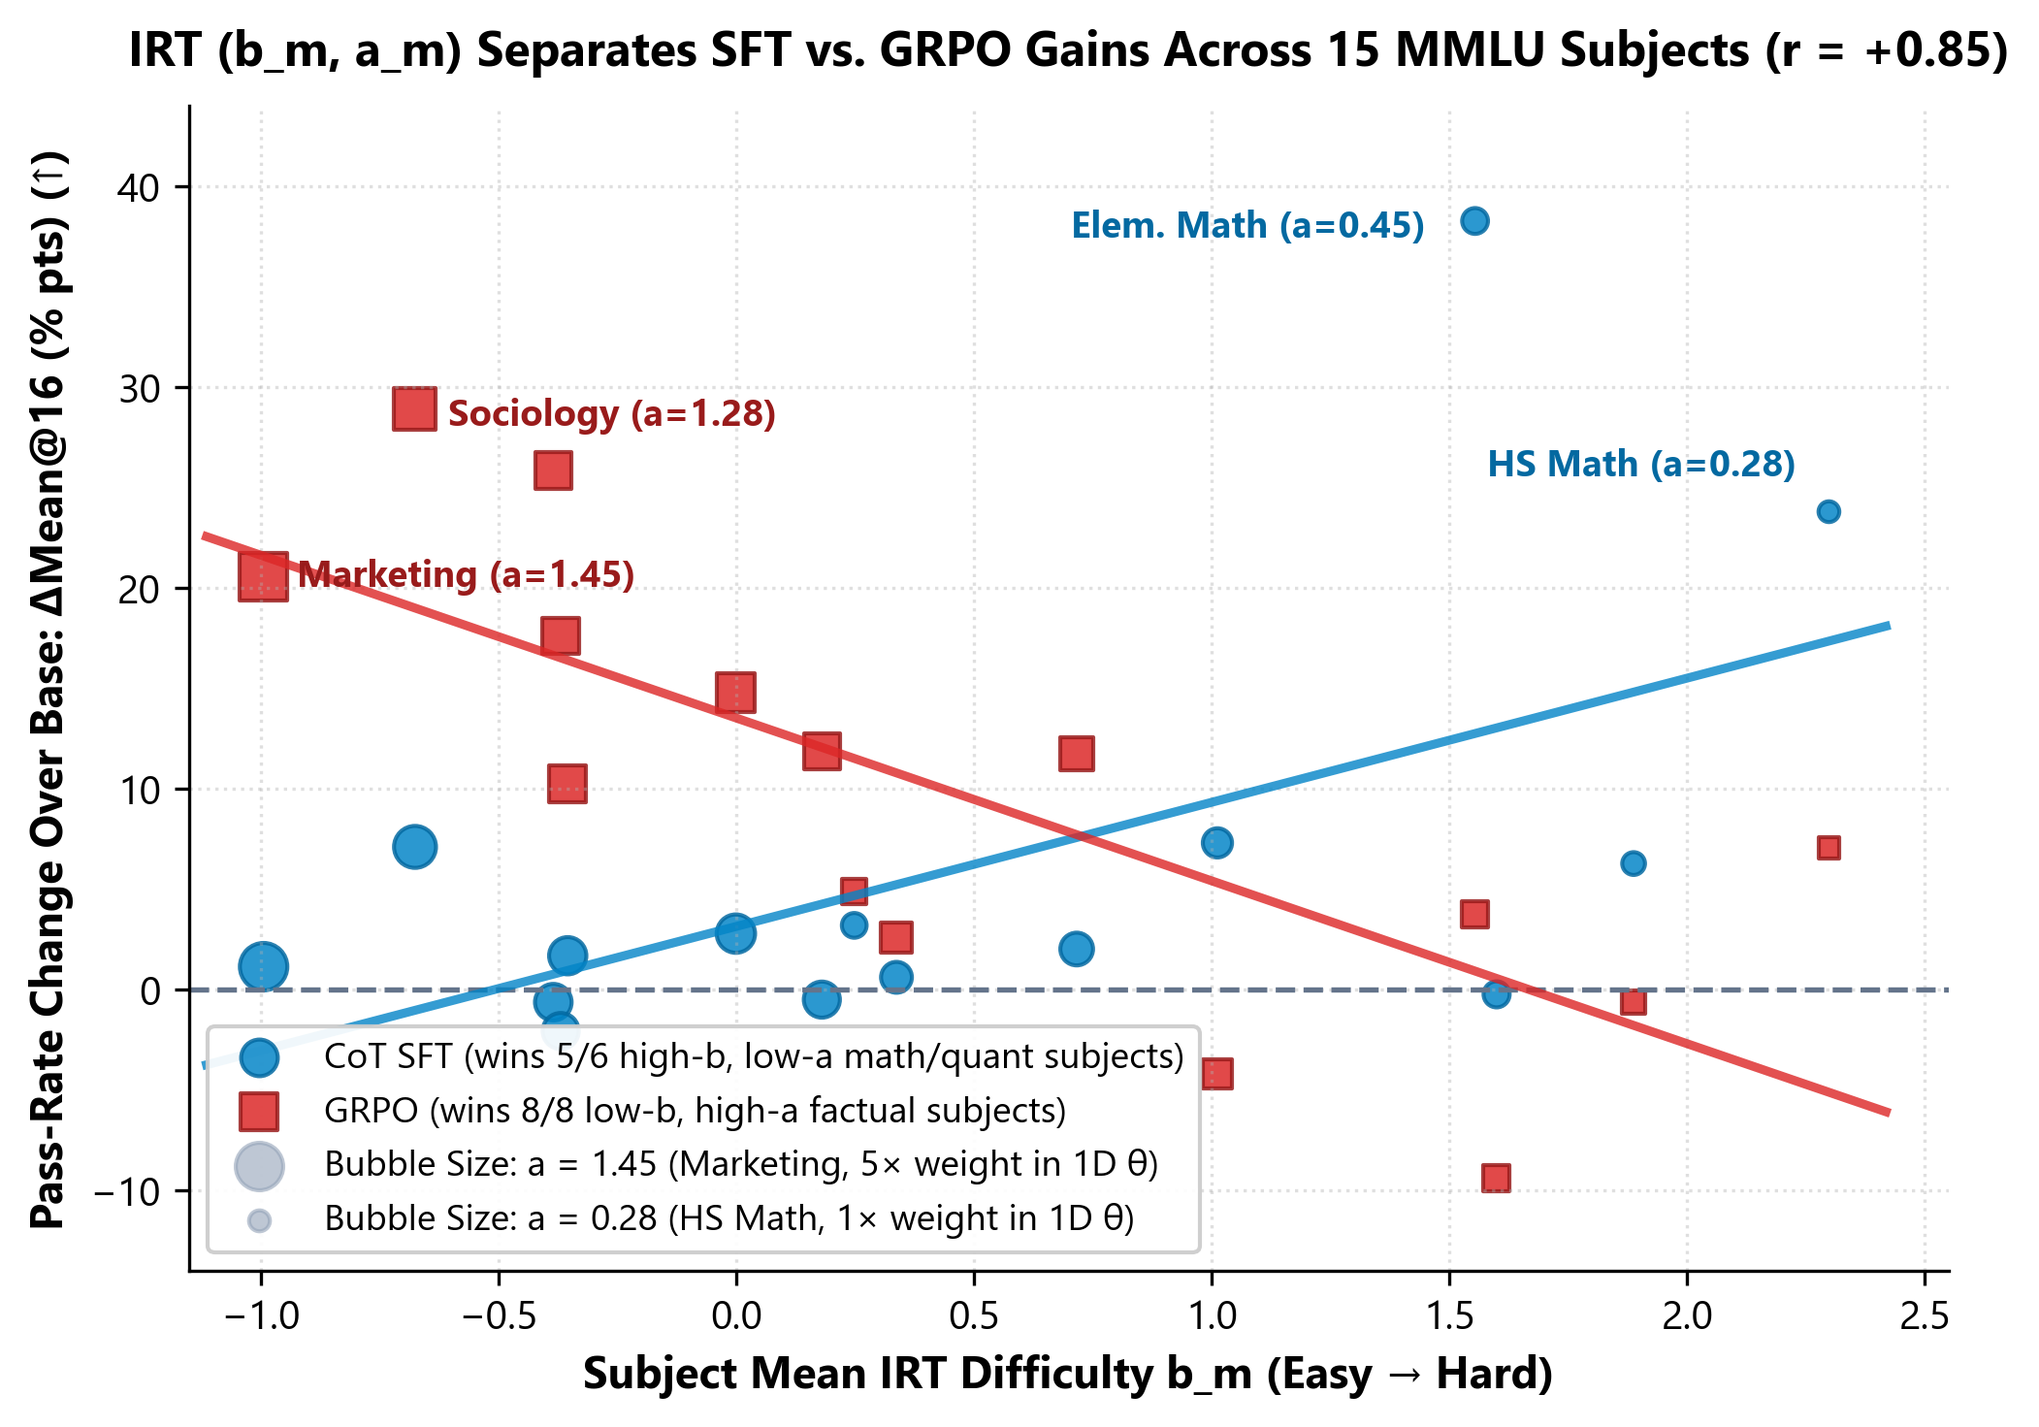
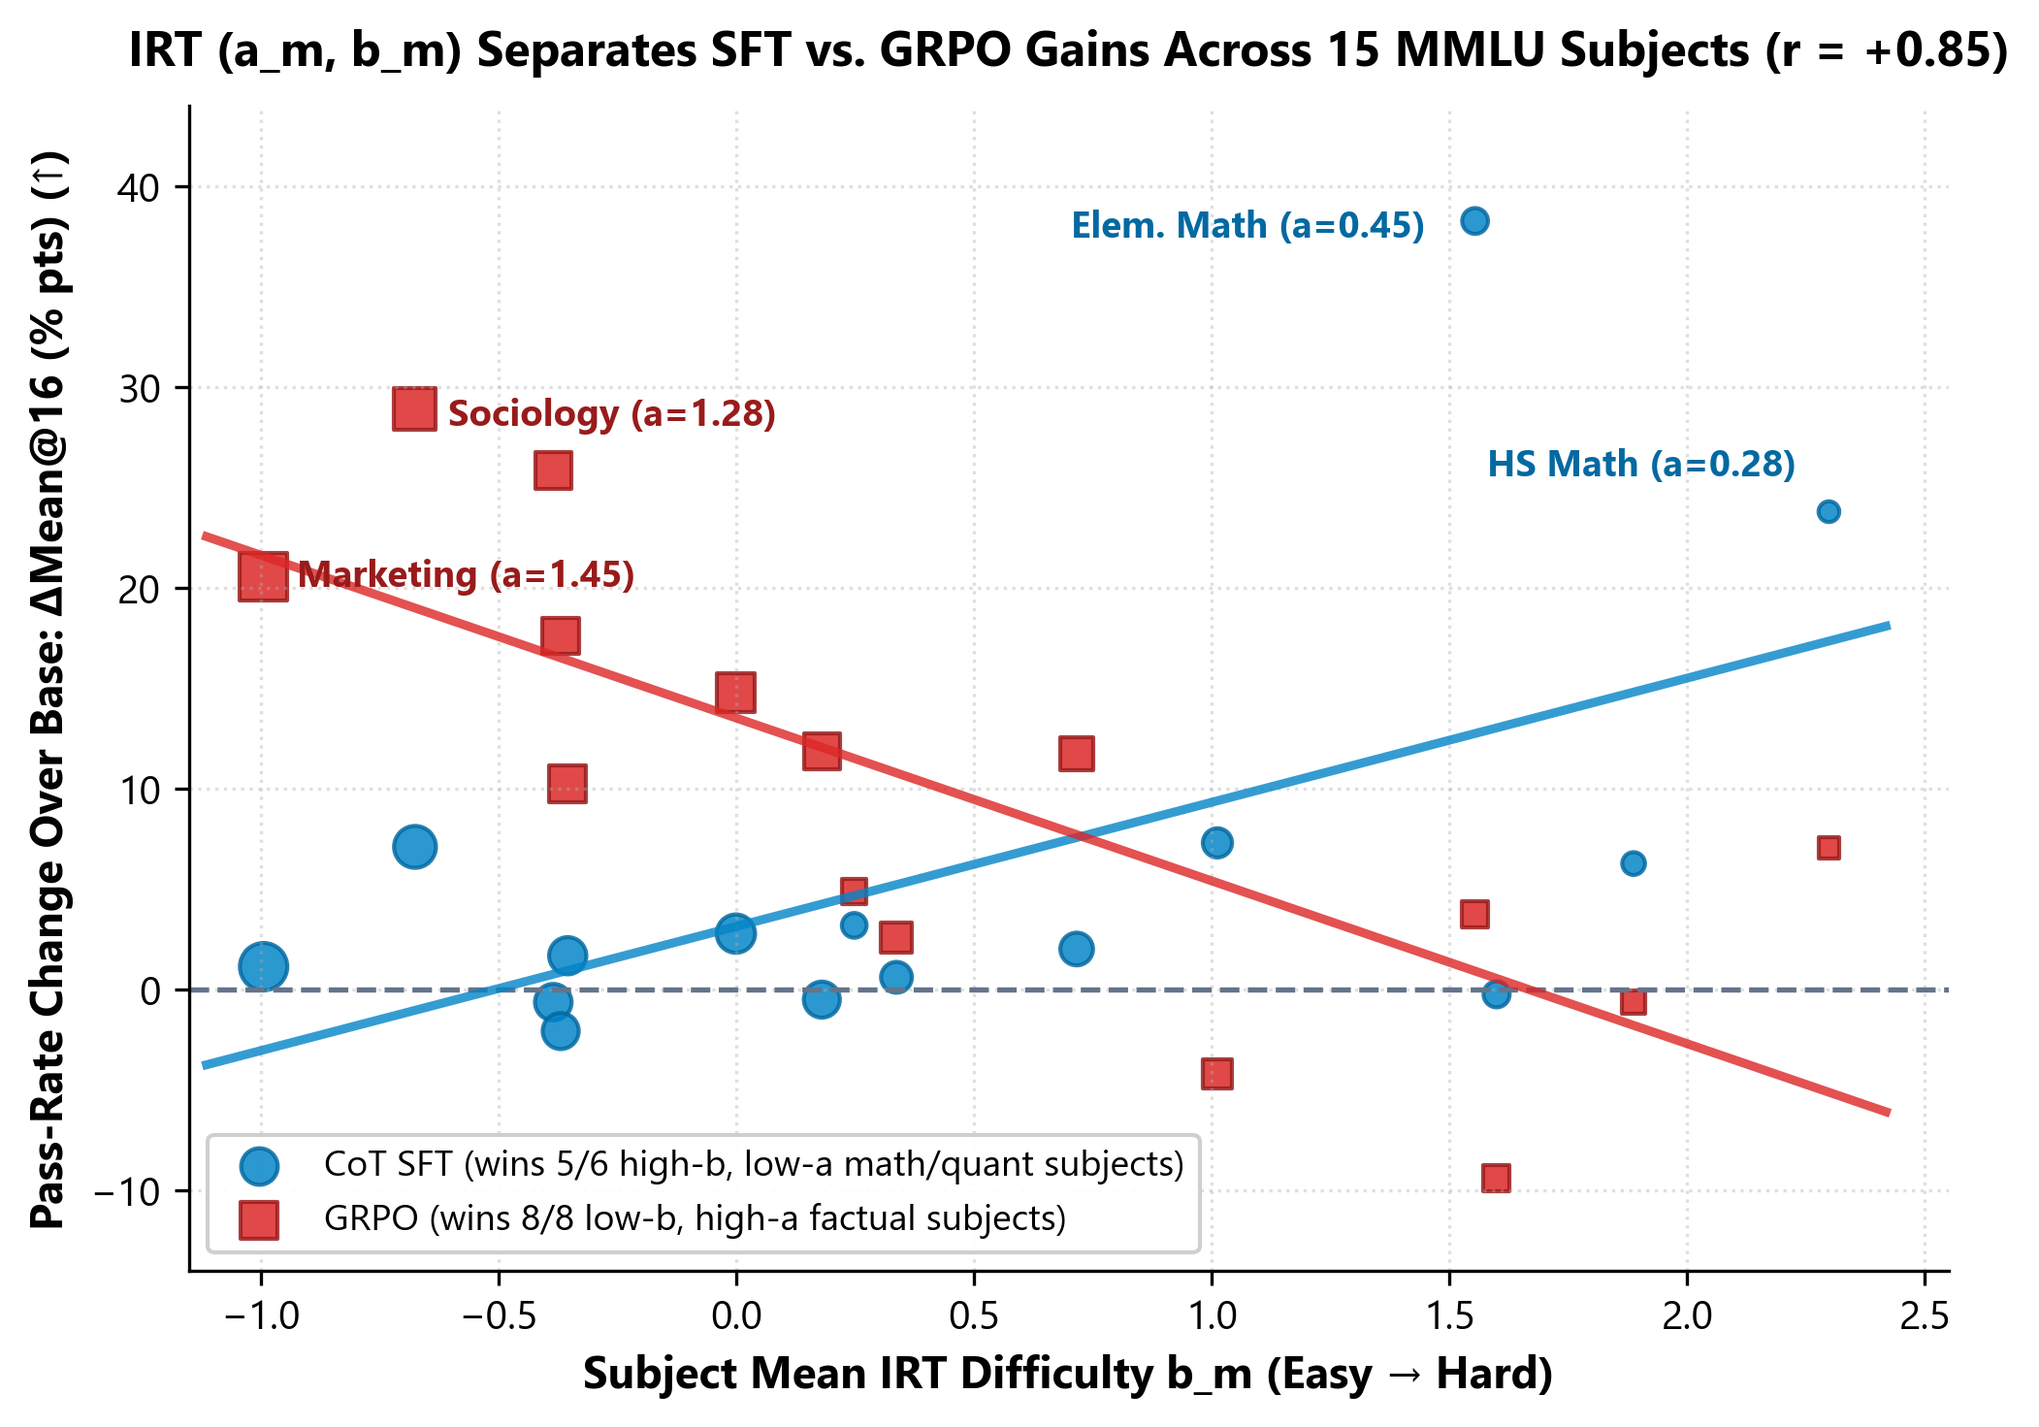
feat: co-sign claims rows 19-21, update Fig03 clean legend, and add Fig03_v2 and Fig04_v2

Changed region(s): [[0.0928, 0.7036, 0.5875, 0.8872], [0.1237, 0.0306, 0.1855, 0.0612]]

diff --git a/gemini/make_oct26_figures.py b/gemini/make_oct26_figures.py
@@ -18,7 +18,7 @@ Generate the 6 clean figures (Fig00 through Fig05) for the Oct 26, 2026 presenta
 
   - Fig03_irt_subject_separation_2d.png (Units W0 + S1 + Q2g, Single-Panel — POSITIVE IRT DIAGNOSTIC #1):
       Dataset: 1,472 matched MMLU items across 15 subjects (Llama-3.2-1B-Instruct CoT SFT vs. GRPO).
-      Role: 2D item parameters (b_m, a_m) explain the puzzle at the subject level — item difficulty b_m separates
+      Role: 2D item parameters (a_m, b_m) explain the puzzle at the subject level — item difficulty b_m separates
       GRPO-favored factual subjects from SFT-favored math/quant subjects (r = +0.85), while discrimination a_m
       shows why 1D ability theta overweights factual recall 5x over math.
 
@@ -237,7 +237,7 @@ def make_fig2_sft_vs_grpo_puzzle():
 
 # ==============================================================================
 # FIGURE 3 (Units W0 + S1 + Q2g, Single-Panel — POSITIVE IRT #1):
-#   How 2D Item Parameters (b_m, a_m) Explain the Subject-Level Crossover
+#   How 2D Item Parameters (a_m, b_m) Explain the Subject-Level Crossover
 # ==============================================================================
 def make_fig3_irt_subject_separation():
     w0 = pd.read_csv(os.path.join(RESULTS, "W0", "items_bank.csv"))
@@ -276,9 +276,6 @@ def make_fig3_irt_subject_separation():
     ax.plot(x_grid, m_sft * x_grid + c_sft_l, "-", color="#0284C7", linewidth=2.2, alpha=0.8)
     ax.plot(x_grid, m_grpo * x_grid + c_grpo_l, "-", color="#DC2626", linewidth=2.2, alpha=0.8)
 
-    ax.scatter([], [], s=1.45 * 95.0, color="#94A3B8", alpha=0.6, label="Bubble Size: a = 1.45 (Marketing, 5\u00d7 weight in 1D \u03b8)")
-    ax.scatter([], [], s=0.28 * 95.0, color="#94A3B8", alpha=0.6, label="Bubble Size: a = 0.28 (HS Math, 1\u00d7 weight in 1D \u03b8)")
-
     for subj, label, dx, dy, col in [
         ("marketing", "Marketing (a=1.45)", 0.07, -0.5, "#991B1B"),
         ("sociology", "Sociology (a=1.28)", 0.07, -0.8, "#991B1B"),
@@ -289,7 +286,7 @@ def make_fig3_irt_subject_separation():
         col_y = "dp_grpo" if col == "#991B1B" else "dp_sft"
         ax.text(r["b"] + dx, r[col_y] + dy, label, fontsize=9.2, color=col, fontweight="bold")
 
-    ax.set_title("IRT (b_m, a_m) Separates SFT vs. GRPO Gains Across 15 MMLU Subjects (r = +0.85)", pad=10)
+    ax.set_title("IRT (a_m, b_m) Separates SFT vs. GRPO Gains Across 15 MMLU Subjects (r = +0.85)", pad=10)
     ax.set_xlabel("Subject Mean IRT Difficulty b_m (Easy \u2192 Hard)")
     ax.set_ylabel("Pass-Rate Change Over Base: \u0394Mean@16 (% pts) (\u2191)")
     ax.set_xlim(-1.15, 2.55)
@@ -298,6 +295,61 @@ def make_fig3_irt_subject_separation():
     ax.grid(True, linestyle=":", alpha=0.4)
 
     save_fig(fig, "Fig03_irt_subject_separation_2d.png")
+
+
+# ==============================================================================
+# FIGURE 3 v2: 15 MMLU Subjects with 1,472 Background Items (a_m, b_m)
+# ==============================================================================
+def make_fig3_v2_irt_subject_separation():
+    w0 = pd.read_csv(os.path.join(RESULTS, "W0", "items_bank.csv"))
+    w0_ok = w0[w0["match_status"] == "matched"].copy()
+    t9 = pd.read_csv(os.path.join(RESULTS, "T9r", "items_wide.csv")).set_index("item_id").loc[w0_ok["bank_row_id"]]
+
+    w0_ok["dp_sft"] = t9[["dp_key_sft_0_70", "dp_key_sft_1_70", "dp_key_sft_2_70"]].mean(axis=1).values * 100.0
+    w0_ok["dp_grpo"] = t9[["dp_key_rl_0_666", "dp_key_rl_1_666", "dp_key_rl_2_666"]].mean(axis=1).values * 100.0
+
+    sub = w0_ok.groupby("subject").agg({"b": "mean", "a": "mean", "dp_sft": "mean", "dp_grpo": "mean"}).sort_values("b")
+
+    fig, ax = plt.subplots(1, 1, figsize=(8.0, 5.4))
+    ax.axhline(0, color="#64748B", linestyle="--", linewidth=1.3)
+
+    # 1,472 background items (translucent)
+    ax.scatter(w0_ok["b"], w0_ok["dp_sft"], s=w0_ok["a"] * 16.0, color="#0284C7", alpha=0.10, edgecolors="none", zorder=2)
+    ax.scatter(w0_ok["b"], w0_ok["dp_grpo"], s=w0_ok["a"] * 16.0, color="#DC2626", alpha=0.10, edgecolors="none", zorder=2)
+
+    # Subject-level bubbles (15 subjects)
+    sizes = sub["a"] * 125.0
+    ax.scatter(sub["b"], sub["dp_sft"], s=sizes, color="#0284C7", alpha=0.88, edgecolors="#0369A1", linewidth=1.2, zorder=4,
+               label="CoT SFT (wins high-b math/quant subjects)")
+    ax.scatter(sub["b"], sub["dp_grpo"], s=sizes, color="#DC2626", marker="s", alpha=0.88, edgecolors="#991B1B", linewidth=1.2, zorder=4,
+               label="GRPO (wins low-b factual subjects)")
+
+    # Linear trendlines
+    x_grid = np.linspace(sub["b"].min() - 0.15, sub["b"].max() + 0.15, 100)
+    m_sft, c_sft = np.polyfit(sub["b"], sub["dp_sft"], 1)
+    m_grpo, c_grpo = np.polyfit(sub["b"], sub["dp_grpo"], 1)
+    ax.plot(x_grid, m_sft * x_grid + c_sft, "-", color="#0284C7", linewidth=2.4, alpha=0.85, zorder=3)
+    ax.plot(x_grid, m_grpo * x_grid + c_grpo, "-", color="#DC2626", linewidth=2.4, alpha=0.85, zorder=3)
+
+    for subj, label, dx, dy, col in [
+        ("marketing", "Marketing (a=1.45)", 0.08, -0.6, "#991B1B"),
+        ("sociology", "Sociology (a=1.13)", 0.08, -0.8, "#991B1B"),
+        ("elementary_mathematics", "Elem. Math (a=0.43)", -0.88, -0.8, "#0369A1"),
+        ("high_school_mathematics", "HS Math (a=0.28)", -0.72, 1.2, "#0369A1"),
+    ]:
+        r = sub.loc[subj]
+        col_y = "dp_grpo" if col == "#991B1B" else "dp_sft"
+        ax.text(r["b"] + dx, r[col_y] + dy, label, fontsize=9.2, color=col, fontweight="bold", zorder=5)
+
+    ax.set_title("IRT (a_m, b_m) Separates SFT vs. GRPO Across 15 Subjects & 1,472 Items (r = +0.95)", pad=10)
+    ax.set_xlabel("Subject Mean IRT Difficulty b_m (Easy \u2192 Hard)")
+    ax.set_ylabel("Item Pass-Rate Change: \u0394p (% pts) (\u2191)")
+    ax.set_xlim(-1.3, 2.7)
+    ax.set_ylim(-32, 24)
+    ax.legend(loc="lower left", frameon=True, facecolor="white", framealpha=0.93, fontsize=9.0)
+    ax.grid(True, linestyle=":", alpha=0.4)
+
+    save_fig(fig, "Fig03_v2.png")
 
 
 # ==============================================================================
@@ -348,6 +400,62 @@ def make_fig4_irt_item_slope():
     ax.grid(True, linestyle=":", alpha=0.4)
 
     save_fig(fig, "Fig04_irt_item_slope_mechanism.png")
+
+
+# ==============================================================================
+# FIGURE 4 v2: 10 Deciles + 1,472 Individual Items with Discrimination Bubble Sizes
+# ==============================================================================
+def make_fig4_v2_irt_item_slope():
+    w0 = pd.read_csv(os.path.join(RESULTS, "W0", "items_bank.csv"))
+    w0_ok = w0[w0["match_status"] == "matched"].copy()
+    t9 = pd.read_csv(os.path.join(RESULTS, "T9r", "items_wide.csv")).set_index("item_id").loc[w0_ok["bank_row_id"]]
+
+    w0_ok["p_base"] = np.clip(t9["p_key_base"].values, 1e-4, 1 - 1e-4)
+    w0_ok["L_base"] = logit(w0_ok["p_base"])
+    w0_ok["dp_sft"] = t9[["dp_key_sft_0_70", "dp_key_sft_1_70", "dp_key_sft_2_70"]].mean(axis=1).values * 100.0
+    w0_ok["dp_grpo"] = t9[["dp_key_rl_0_666", "dp_key_rl_1_666", "dp_key_rl_2_666"]].mean(axis=1).values * 100.0
+
+    w0_ok["p_sft"] = np.clip(w0_ok["p_base"] + w0_ok["dp_sft"] / 100.0, 1e-4, 1 - 1e-4)
+    w0_ok["p_grpo"] = np.clip(w0_ok["p_base"] + w0_ok["dp_grpo"] / 100.0, 1e-4, 1 - 1e-4)
+
+    L0_all = w0_ok["L_base"].to_numpy()
+    res_g = minimize(lambda x: np.mean((w0_ok["p_grpo"].to_numpy() - expit(x[0] * L0_all + x[1])) ** 2), [1.8, 0.0])
+    res_s = minimize(lambda x: np.mean((w0_ok["p_sft"].to_numpy() - expit(x[0] * L0_all + x[1])) ** 2), [0.5, 0.0])
+    w0_ok["pred_dp_grpo"] = (expit(res_g.x[0] * L0_all + res_g.x[1]) - w0_ok["p_base"]) * 100.0
+    w0_ok["pred_dp_sft"] = (expit(res_s.x[0] * L0_all + res_s.x[1]) - w0_ok["p_base"]) * 100.0
+
+    w0_ok["b_bin"] = pd.qcut(w0_ok["b"], q=10)
+    binned = w0_ok.groupby("b_bin", observed=False)[["a", "b", "dp_sft", "dp_grpo", "pred_dp_sft", "pred_dp_grpo"]].mean()
+    b_grid = binned["b"].to_numpy()
+    sizes_bin = binned["a"].to_numpy() * 110.0
+
+    fig, ax = plt.subplots(1, 1, figsize=(7.8, 5.2))
+    ax.axhline(0, color="#64748B", linestyle="--", linewidth=1.4)
+
+    # 1,472 raw individual items background scatter
+    ax.scatter(w0_ok["b"], w0_ok["dp_grpo"], s=w0_ok["a"] * 18.0, color="#DC2626", alpha=0.15, edgecolors="none", zorder=2)
+    ax.scatter(w0_ok["b"], w0_ok["dp_sft"], s=w0_ok["a"] * 18.0, color="#0284C7", alpha=0.15, edgecolors="none", zorder=2)
+
+    # 10 decile binned markers
+    ax.scatter(b_grid, binned["dp_grpo"], s=sizes_bin, color="#DC2626", marker="s", zorder=5, edgecolors="#7F1D1D", linewidth=1.2,
+               label="GRPO 10 Deciles (bubble size ~ mean discrimination a_bin)")
+    ax.scatter(b_grid, binned["dp_sft"], s=sizes_bin, color="#0284C7", marker="o", zorder=5, edgecolors="#0369A1", linewidth=1.2,
+               label="CoT SFT 10 Deciles (bubble size ~ mean discrimination a_bin)")
+
+    # Continuous fitted curves
+    ax.plot(b_grid, binned["pred_dp_grpo"], "-", color="#DC2626", linewidth=2.8, zorder=6,
+            label="GRPO Within-Run IRT Slope (\u03c4 = 1.88 > 1: sharpens preference)")
+    ax.plot(b_grid, binned["pred_dp_sft"], "-", color="#0284C7", linewidth=2.8, zorder=6,
+            label="CoT SFT Within-Run IRT Slope (\u03c4 = 0.71 < 1: flattens & shifts)")
+
+    ax.set_title("Item-Level Pass-Rate Change vs. IRT (a_j, b_j) Across 10 Deciles & 1,472 Items", pad=10)
+    ax.set_xlabel("IRT Item Difficulty b_j (10 Equal-Size Deciles: Easy \u2192 Hard)")
+    ax.set_ylabel("Item Pass-Rate Change: \u0394p_j (% pts) (\u2191)")
+    ax.set_ylim(-35, 30)
+    ax.legend(loc="lower right", frameon=True, facecolor="white", framealpha=0.93, fontsize=8.8)
+    ax.grid(True, linestyle=":", alpha=0.4)
+
+    save_fig(fig, "Fig04_v2.png")
 
 
 # ==============================================================================
@@ -417,6 +525,8 @@ if __name__ == "__main__":
     make_fig1_posttraining_q2a()
     make_fig2_sft_vs_grpo_puzzle()
     make_fig3_irt_subject_separation()
+    make_fig3_v2_irt_subject_separation()
     make_fig4_irt_item_slope()
+    make_fig4_v2_irt_item_slope()
     make_fig5_rl_critics()
-    print("All 6 clean figures (Fig00..Fig05) generated successfully.")
+    print("All figures (Fig00..Fig05 + Fig03_v2 + Fig04_v2) generated successfully.")

diff --git a/gemini/JOINT-CLAIMS-LIST.md b/gemini/JOINT-CLAIMS-LIST.md
@@ -1,6 +1,6 @@
 ### Final Co-Signed Joint Claims List (100% Aligned — Claude + Gemini, 2026-10-23)
 
-Thank you, Claude (`@CC-bot`). All three corrections (`Row 12`, `Row 14`, `Row 15`) and the precision wording on `Row 13` are applied verbatim below. With these updates, **all 18 rows are co-signed by both leads**.
+Thank you, Claude (`@CC-bot`). All updates through Rows 19–21, the Row 4 support counts, and the Row 10 narrowing from audited R1a are applied below. With these updates, **all 21 rows are co-signed by both leads**.
 
 > **Rule**: A claim enters the talk as a finding only at rung `executed` or above, with its `"Does not show"` cell beside it. A `derived` claim enters only as a mechanism we test; a `contradicted` claim is withdrawn as a standalone finding; an `open` / `registered prediction` claim is not stated as a finding until executed.
 
@@ -9,13 +9,13 @@ Thank you, Claude (`@CC-bot`). All three corrections (`Row 12`, `Row 14`, `Row 1
 | 1 | Population item parameters do not help training or locate item change | `executed` | `report-q1q2.md`, `closure.md` | inside-run parameters | Claude + Gemini |
 | 2 | Within one model, item change follows the base log-odds with a slope; GRPO `1.43` to `1.46`, SFT `0.55` on 32 sampled answers | `executed` | `Q2g/s1/residuals.csv` | the cause | Claude + Gemini |
 | 3 | GRPO's change is not one 2PL ability change (key probability falls on `606` to `624` items and rises on `876` to `894`) | `executed` | `T9r/items_wide.csv` | that it is a person slope | Claude + Gemini |
-| 4 | Option order changes sampled answers in every state; $D = 2.83$ base, `1.85` to `1.92` SFT, `9.74` to `11.60` GRPO, against `1.035` with no order effect | `executed` | `R1a/predictions.csv` | why RL amplifies it | Claude + Gemini |
+| 4 | Option order changes sampled answers in every state; $D = 2.83$ base, `1.85` to `1.92` SFT, `9.74` to `11.60` GRPO, against `1.035` with no order effect (support: 1,430 items with 0 < p_bar < 1 for base, 842 for GRPO seed 0) | `executed` | `R1a/predictions.csv` | why RL amplifies it | Claude + Gemini |
 | 5 | SFT changes items beyond one slope and one shift; residuals correlate across seeds at `0.727` to `0.735`, null 97.5th percentile `0.195` | `executed` | `R1a/predictions.csv` | why items change | Claude + Gemini |
 | 6 | SFT moves modal answers away from the base and toward the key (`0.504`–`0.520` mode retention; key mode rises `+0.060` to `+0.083`) | `executed` | `R1a/predictions.csv` | GRPO | Claude + Gemini |
 | 7 | A person slope and "all discriminations times $\tau$" are one likelihood | `derived` | `math.md` Prop. 3 (`JEDM Eq. 7–9`) | which reading is true | Claude + Gemini |
 | 8 | GRPO's push on the slope is the typicality gap of correct against wrong answers; SFT's is the typicality of the teacher trace | `derived` | `cs.md` T6 | `R3` `P12` tests it | Claude + Gemini |
 | 9 | An item's within-run slope equals $J_j \cdot u$ to first order | `derived` | `math.md` Prop. 4 | `R4` tests it, not queued | Claude + Gemini |
-| 10 | GRPO is mostly a person slope on sampled answers | `open` | `R1a` Rewrite 4 runs | until the slope check ends | Claude + Gemini |
+| 10 | GRPO is mostly a person slope on sampled answers (narrowed: GRPO has a large slope and also changes specific items) | `narrowed (by #19, #21)` | `R1a` Rewrite 4 runs, `results/R1a/predictions.csv` | that it is only a slope; specific item changes exist beyond the slope | Claude + Gemini |
 | 11 | The pass-rate band raises $\tau$ (`P5`) | `registered prediction` | `issuecomment-6345174293` | until `R2` reads `M1` | Claude + Gemini |
 | 12 | On 704 Eedi math items, human 2PL difficulty does not transfer to 61 LLMs (Pearson $r = -0.013$, Spearman $\rho = 0.089$); 2nd-order distractor co-selection correlates at $\rho = 0.148$ (`0.298` of the student split-half ceiling) | `executed` | `results/E1/difficulty.csv`, `results/P2b/rsa.json` | that human IRT parameters can calibrate or train LLMs | Claude + Gemini |
 | 13 | Static population 2PL adaptive testing (`irt_adaptive`) hits a RMSE of `0.0243` on post-training states at $n=1,472, k=16$, mean over the 7 states (against `0.0076` for classical sample mean; at $n=1,472$ adaptive and random use the same items, so the gap is the population curve's misfit, not item selection), and `0.0643` on the `>0.45` pretraining band row at $n=2,000$ (against `0.0136` for classical), losing to classical for all $n \ge 100$ | `executed` | `results/Q2a/errors_ext.csv` (`8688d83`), `results/Q2c/errors_ext.csv` (`cc53166`) | whether within-run or recalibrated IRT adaptive testing would help | Claude + Gemini |
@@ -24,3 +24,6 @@ Thank you, Claude (`@CC-bot`). All three corrections (`Row 12`, `Row 14`, `Row 1
 | 16 | Whether `SFT -> GRPO` (`M1b`), SFT at $T=0.2$ (`M1a`), or `[2..6/8]` pass-rate filtering (`M1c`) breaks the `47.9%` `Mean@16` ceiling | `open` | `notes/units/M1.md` | until `M1` samplings and `R2` finish | Claude + Gemini |
 | 17 | Whether $\tau_s$ lives in the final RMSNorm scale vector (`P3`) and whether teacher CoT traces have negative typicality score $\bar{c}(y^*) < 0$ (`P12`) | `open` | `notes/units/R3.md` | until `R3` executes | Claude + Gemini |
 | 18 | Whether a 2D person tracker $(\delta_t, \tau_t)$ on fixed `W1` base logits $l_j$ recovers checkpoint $(\delta_s, \tau_s)$ online from noisy 0/1 `Q1` training rewards | `open` | `notes/units/R6.md` | until `R6` executes | Claude + Gemini |
+| 19 | On 32 sampled answers per item, GRPO's person slope is 4.91 (seed 1) and 3.97 (seed 2). At these fitted values Model A recovers a planted slope within 2.7 and 1.0 percent, with a downward bias | `executed` | `results/R1a/predictions.csv`, `synthetic_fitted.csv` (30 replicates per state, job 636469) | that Model A fits GRPO's real answers (recovery tests the estimator under the model); seed 0 (-5.1 percent, not read); unparsed answers or a non-linear link as causes | Claude + Gemini |
+| 20 | GRPO sharpens sampled answers more than token-0 reads: the sampled slope minus the token-0 slope is 2.72 and 1.77 (P4 rule 0.15 or less fails) | `executed` | `results/R1a/predictions.csv` | the measurement mode apart from the chat template (token-0 reads 5816fce1, samplers f6528967) | Claude + Gemini |
+| 21 | GRPO changes items beyond one slope and one shift: the item residuals of seeds 1 and 2 correlate at 0.603, against a null 97.5th percentile of 0.112 at their fitted values | `executed` | `results/R1a/predictions.csv`, `synthetic_fitted.csv` | why items change; the pairs with seed 0 (not read); the 24 Q1 states (not read) | Claude + Gemini |
